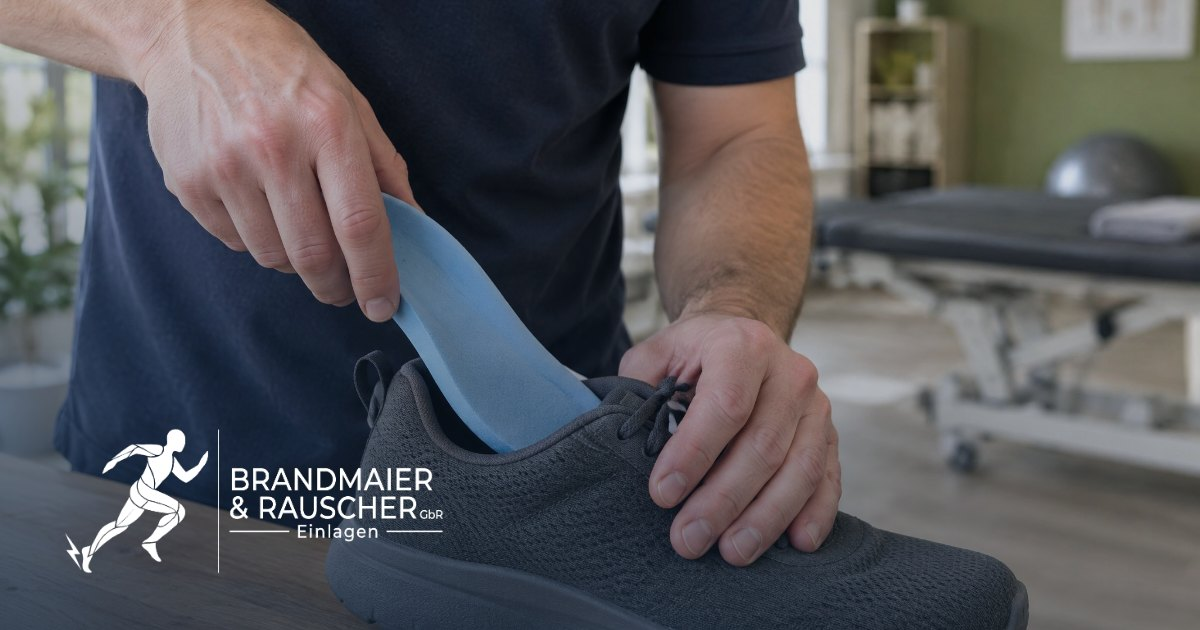
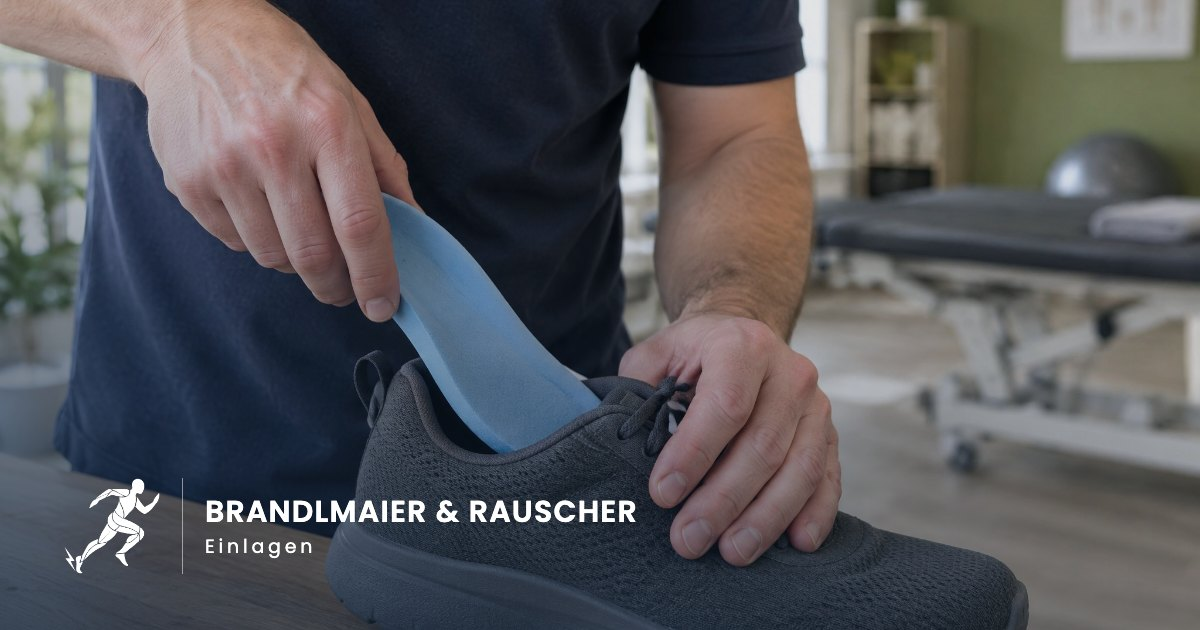
Brandlmaier statt Brandmaier, Hero-Text mittig, Druckkarte deutlicher
Name: Überall auf "Brandlmaier" umgestellt (Texte, Seitentitel, Gründername,
Impressum, Paketname). Die Logo-Datei des Kunden trägt noch die alte
Schreibweise. Deshalb zeigen Footer, Social-Media-Vorschaubild und das Logo
für Suchmaschinen jetzt das Läufer-Zeichen mit dem Namen als echter Schrift.

Hero: Der Textblock steht jetzt vertikal in der Mitte des Bildschirms.

Druckkarte: Unterschied zwischen beiden Reglerenden stärker sichtbar.
Ohne Einlage ein schmalerer Außenstreifen und ein engerer, hellerer
Fersenpunkt, mit Einlage eine breitere Auflage des Fußgewölbes. Die
gemessenen Studienwerte bleiben unverändert.

Tests 108/108 und 47/47.

Changed region(s): [[0.0308, 0.6635, 0.5242, 0.9048]]

diff --git a/_work/media/contact-sheet/contact-sheet.html b/_work/media/contact-sheet/contact-sheet.html
@@ -12,7 +12,7 @@ figure{margin:0;background:#0d172b;border-radius:6px;overflow:hidden}
 figcaption{padding:8px 10px 10px}figcaption b{display:block;font-size:13.5px;color:#fff;word-break:break-all}
 figcaption span{display:block;font-size:11.5px;color:var(--steel);margin-top:2px}
 </style>
-<h1>Brandmaier &amp; Rauscher – stock media contact sheet</h1>
+<h1>Brandlmaier &amp; Rauscher – stock media contact sheet</h1>
 <p class="sub">12 videos (poster = first frame; each as .mp4 + .webm + .jpg in public/media/videos) · 12 photos (public/media/images) · sources and licenses: _work/media/CREDITS.md</p>
 <h2>Videos</h2><div class="g v"><figure class=""><div class="im"><img src="file:///Users/lukas.sehorz/Library/CloudStorage/OneDrive-Pers%C3%B6nlich/Desktop/Webseiten/Sale/Wowo-Webseit/public/media/videos/detail-lacing-shoe.jpg"></div><figcaption><b>detail-lacing-shoe</b><span>1920x1080 · 7.0 s · mp4 2.5 MB · webm 1.8 MB</span></figcaption></figure><figure class=""><div class="im"><img src="file:///Users/lukas.sehorz/Library/CloudStorage/OneDrive-Pers%C3%B6nlich/Desktop/Webseiten/Sale/Wowo-Webseit/public/media/videos/hero-run-cobblestone.jpg"></div><figcaption><b>hero-run-cobblestone</b><span>1920x1080 · 10.0 s · mp4 4.0 MB · webm 2.2 MB</span></figcaption></figure><figure class=""><div class="im"><img src="file:///Users/lukas.sehorz/Library/CloudStorage/OneDrive-Pers%C3%B6nlich/Desktop/Webseiten/Sale/Wowo-Webseit/public/media/videos/hero-walk-crosswalk.jpg"></div><figcaption><b>hero-walk-crosswalk</b><span>1920x1080 · 9.0 s · mp4 4.0 MB · webm 2.5 MB</span></figcaption></figure><figure class=""><div class="im"><img src="file:///Users/lukas.sehorz/Library/CloudStorage/OneDrive-Pers%C3%B6nlich/Desktop/Webseiten/Sale/Wowo-Webseit/public/media/videos/physio-foot-palpation.jpg"></div><figcaption><b>physio-foot-palpation</b><span>1920x1080 · 9.0 s · mp4 2.5 MB · webm 0.8 MB</span></figcaption></figure><figure class=""><div class="im"><img src="file:///Users/lukas.sehorz/Library/CloudStorage/OneDrive-Pers%C3%B6nlich/Desktop/Webseiten/Sale/Wowo-Webseit/public/media/videos/physio-knee-taping.jpg"></div><figcaption><b>physio-knee-taping</b><span>1920x1080 · 8.0 s · mp4 1.8 MB · webm 1.1 MB</span></figcaption></figure><figure class=""><div class="im"><img src="file:///Users/lukas.sehorz/Library/CloudStorage/OneDrive-Pers%C3%B6nlich/Desktop/Webseiten/Sale/Wowo-Webseit/public/media/videos/physio-treadmill-gait.jpg"></div><figcaption><b>physio-treadmill-gait</b><span>1920x1080 · 9.0 s · mp4 2.2 MB · webm 0.9 MB</span></figcaption></figure><figure class=""><div class="im"><img src="file:///Users/lukas.sehorz/Library/CloudStorage/OneDrive-Pers%C3%B6nlich/Desktop/Webseiten/Sale/Wowo-Webseit/public/media/videos/run-road-side.jpg"></div><figcaption><b>run-road-side</b><span>1600x900 · 8.0 s · mp4 2.6 MB · webm 2.2 MB</span></figcaption></figure><figure class=""><div class="im"><img src="file:///Users/lukas.sehorz/Library/CloudStorage/OneDrive-Pers%C3%B6nlich/Desktop/Webseiten/Sale/Wowo-Webseit/public/media/videos/sport-football-footwork.jpg"></div><figcaption><b>sport-football-footwork</b><span>1920x1080 · 9.0 s · mp4 3.5 MB · webm 2.3 MB</span></figcaption></figure><figure class=""><div class="im"><img src="file:///Users/lukas.sehorz/Library/CloudStorage/OneDrive-Pers%C3%B6nlich/Desktop/Webseiten/Sale/Wowo-Webseit/public/media/videos/sport-football-penalty.jpg"></div><figcaption><b>sport-football-penalty</b><span>1920x1080 · 5.0 s · mp4 1.8 MB · webm 1.2 MB</span></figcaption></figure><figure class=""><div class="im"><img src="file:///Users/lukas.sehorz/Library/CloudStorage/OneDrive-Pers%C3%B6nlich/Desktop/Webseiten/Sale/Wowo-Webseit/public/media/videos/walk-bridge-teal.jpg"></div><figcaption><b>walk-bridge-teal</b><span>1920x1080 · 7.0 s · mp4 1.8 MB · webm 0.8 MB</span></figcaption></figure><figure class=""><div class="im"><img src="file:///Users/lukas.sehorz/Library/CloudStorage/OneDrive-Pers%C3%B6nlich/Desktop/Webseiten/Sale/Wowo-Webseit/public/media/videos/work-clinic-corridor.jpg"></div><figcaption><b>work-clinic-corridor</b><span>1920x1080 · 9.0 s · mp4 2.7 MB · webm 1.5 MB</span></figcaption></figure><figure class=""><div class="im"><img src="file:///Users/lukas.sehorz/Library/CloudStorage/OneDrive-Pers%C3%B6nlich/Desktop/Webseiten/Sale/Wowo-Webseit/public/media/videos/work-workshop-walk.jpg"></div><figcaption><b>work-workshop-walk</b><span>1920x1080 · 8.0 s · mp4 2.7 MB · webm 2.1 MB</span></figcaption></figure></div>
 <h2>Photos – the four tile-*.jpg are delivered as 4:5 crops (1600×2000)</h2><div class="g p"><figure class=""><div class="im"><img src="file:///Users/lukas.sehorz/Library/CloudStorage/OneDrive-Pers%C3%B6nlich/Desktop/Webseiten/Sale/Wowo-Webseit/public/media/images/tile-handel.jpg"></div><figcaption><b>tile-handel.jpg</b><span>1600x2000 · 669 KB</span></figcaption></figure><figure class=""><div class="im"><img src="file:///Users/lukas.sehorz/Library/CloudStorage/OneDrive-Pers%C3%B6nlich/Desktop/Webseiten/Sale/Wowo-Webseit/public/media/images/tile-logistik.jpg"></div><figcaption><b>tile-logistik.jpg</b><span>1600x2000 · 679 KB</span></figcaption></figure><figure class=""><div class="im"><img src="file:///Users/lukas.sehorz/Library/CloudStorage/OneDrive-Pers%C3%B6nlich/Desktop/Webseiten/Sale/Wowo-Webseit/public/media/images/tile-pflege.jpg"></div><figcaption><b>tile-pflege.jpg</b><span>1600x2000 · 853 KB</span></figcaption></figure><figure class=""><div class="im"><img src="file:///Users/lukas.sehorz/Library/CloudStorage/OneDrive-Pers%C3%B6nlich/Desktop/Webseiten/Sale/Wowo-Webseit/public/media/images/tile-sport.jpg"></div><figcaption><b>tile-sport.jpg</b><span>1600x2000 · 845 KB</span></figcaption></figure><figure class=""><div class="im"><img src="file:///Users/lukas.sehorz/Library/CloudStorage/OneDrive-Pers%C3%B6nlich/Desktop/Webseiten/Sale/Wowo-Webseit/public/media/images/gait-runners-road.jpg"></div><figcaption><b>gait-runners-road.jpg</b><span>2400x1599 · 484 KB</span></figcaption></figure><figure class=""><div class="im"><img src="file:///Users/lukas.sehorz/Library/CloudStorage/OneDrive-Pers%C3%B6nlich/Desktop/Webseiten/Sale/Wowo-Webseit/public/media/images/physio-feet-exam.jpg"></div><figcaption><b>physio-feet-exam.jpg</b><span>2400x1150 · 381 KB</span></figcaption></figure><figure class=""><div class="im"><img src="file:///Users/lukas.sehorz/Library/CloudStorage/OneDrive-Pers%C3%B6nlich/Desktop/Webseiten/Sale/Wowo-Webseit/public/media/images/physio-foot-treatment.jpg"></div><figcaption><b>physio-foot-treatment.jpg</b><span>2400x1929 · 594 KB</span></figcaption></figure><figure class=""><div class="im"><img src="file:///Users/lukas.sehorz/Library/CloudStorage/OneDrive-Pers%C3%B6nlich/Desktop/Webseiten/Sale/Wowo-Webseit/public/media/images/team-conversation.jpg"></div><figcaption><b>team-conversation.jpg</b><span>1600x2400 · 489 KB</span></figcaption></figure><figure class=""><div class="im"><img src="file:///Users/lukas.sehorz/Library/CloudStorage/OneDrive-Pers%C3%B6nlich/Desktop/Webseiten/Sale/Wowo-Webseit/public/media/images/texture-track-blue.jpg"></div><figcaption><b>texture-track-blue.jpg</b><span>1600x2133 · 763 KB</span></figcaption></figure><figure class=""><div class="im"><img src="file:///Users/lukas.sehorz/Library/CloudStorage/OneDrive-Pers%C3%B6nlich/Desktop/Webseiten/Sale/Wowo-Webseit/public/media/images/work-boots-lacing.jpg"></div><figcaption><b>work-boots-lacing.jpg</b><span>2400x1599 · 750 KB</span></figcaption></figure><figure class=""><div class="im"><img src="file:///Users/lukas.sehorz/Library/CloudStorage/OneDrive-Pers%C3%B6nlich/Desktop/Webseiten/Sale/Wowo-Webseit/public/media/images/work-production-line.jpg"></div><figcaption><b>work-production-line.jpg</b><span>2400x1599 · 939 KB</span></figcaption></figure><figure class=""><div class="im"><img src="file:///Users/lukas.sehorz/Library/CloudStorage/OneDrive-Pers%C3%B6nlich/Desktop/Webseiten/Sale/Wowo-Webseit/public/media/images/work-warehouse-walk.jpg"></div><figcaption><b>work-warehouse-walk.jpg</b><span>2400x1599 · 861 KB</span></figcaption></figure></div>

diff --git a/src/content/global.ts b/src/content/global.ts
@@ -25,30 +25,30 @@ export const footer = typesetContent({
     email: "E-Mail",
   },
   notes: [
-    "Formthotics ist eine Marke der Foot Science International Ltd, Neuseeland. Die Brandmaier & Rauscher GbR ist ein unabhängiger Anbieter.",
+    "Formthotics ist eine Marke der Foot Science International Ltd, Neuseeland. Die Brandlmaier & Rauscher GbR ist ein unabhängiger Anbieter.",
     "Einlagen ersetzen keine ärztliche Diagnose oder Therapie. Bei anhaltenden Beschwerden wenden Sie sich bitte an Ihre Ärztin oder Ihren Arzt.",
   ],
-  copyright: "© 2026 Brandmaier & Rauscher GbR",
+  copyright: "© 2026 Brandlmaier & Rauscher GbR",
 });
 
 export const seo = {
   home: {
-    title: "Funktionelle Einlagen, thermisch angepasst | Brandmaier & Rauscher",
+    title: "Funktionelle Einlagen, thermisch angepasst | Brandlmaier & Rauscher",
     description:
       "Zwei Physiotherapeuten passen funktionelle Einlagen direkt im eigenen Schuh an. Unternehmen geben die Versorgung per Gutschein an ihre Mitarbeitenden weiter.",
   },
   about: {
-    title: "Über uns | Brandmaier & Rauscher Einlagen",
+    title: "Über uns | Brandlmaier & Rauscher Einlagen",
     description:
-      "Sebastian Rauscher und Wolfgang Brandmaier sind Physiotherapeuten mit zusammen 20 Jahren Berufserfahrung. Seit 2018 passen wir funktionelle Einlagen an.",
+      "Sebastian Rauscher und Wolfgang Brandlmaier sind Physiotherapeuten mit zusammen 20 Jahren Berufserfahrung. Seit 2018 passen wir funktionelle Einlagen an.",
   },
   vouchers: {
-    title: "Einlagen-Gutscheine für Unternehmen | Brandmaier & Rauscher",
+    title: "Einlagen-Gutscheine für Unternehmen | Brandlmaier & Rauscher",
     description:
       "Gutscheine für Untersuchung, funktionelle Einlagen und thermische Anpassung. Anzahl wählen, Bestellanfrage senden, an Mitarbeitende weitergeben.",
   },
-  imprint: { title: "Impressum | Brandmaier & Rauscher Einlagen" },
-  privacy: { title: "Datenschutzerklärung | Brandmaier & Rauscher Einlagen" },
+  imprint: { title: "Impressum | Brandlmaier & Rauscher Einlagen" },
+  privacy: { title: "Datenschutzerklärung | Brandlmaier & Rauscher Einlagen" },
 };
 
 // Interface labels that are not part of the marketing copy (navigation and controls).
@@ -56,7 +56,7 @@ export const ui = {
   skipLink: "Zum Inhalt springen",
   mainNavLabel: "Hauptnavigation",
   footerNavLabel: "Fußnavigation",
-  homeLinkLabel: "Brandmaier & Rauscher Einlagen, zur Startseite",
+  homeLinkLabel: "Brandlmaier & Rauscher Einlagen, zur Startseite",
   menu: { open: "Menü öffnen", close: "Menü schließen", title: "Menü" },
   claimsLabel: "Auf einen Blick",
   externalHint: "öffnet in neuem Tab",

diff --git a/src/lib/pressure-model.ts b/src/lib/pressure-model.ts
@@ -6,7 +6,9 @@
 
 export const HEEL_PEAK_WITHOUT = 214.1;
 export const HEEL_PEAK_WITH = 172.5;
-export const SCALE_MAX = 232; // kPa at the top of the colour ramp
+// kPa at the top of the colour ramp. Slightly below the unsupported heel peak, so that peak reads
+// as a white-hot spot and the difference to the moulded state is easy to see.
+export const SCALE_MAX = 218;
 
 const FOOT_W = 0.385;
 
@@ -59,8 +61,8 @@ function contactDistance(x: number, y: number, t: number) {
   const heel = sdEllipse(x, y, 0.2, 0.868, 0.118, 0.122);
   const fore = sdEllipse(x, y, 0.192, 0.305, 0.182, 0.098, -0.2);
   // midfoot isthmus: a lateral band without support, widening medially as the moulded contour fills the arch
-  const mx = lerp(0.268, 0.222, t);
-  const midfoot = sdCapsule(x, y, mx - 0.012, 0.75, mx + 0.012, 0.43, lerp(0.062, 0.108, t));
+  const mx = lerp(0.276, 0.214, t);
+  const midfoot = sdCapsule(x, y, mx - 0.012, 0.75, mx + 0.012, 0.43, lerp(0.05, 0.12, t));
   const sole = smin(smin(heel, midfoot, 0.05), fore, 0.05);
   const toes = Math.min(
     sdEllipse(x, y, 0.082, 0.088, 0.05, 0.064, -0.08),
@@ -76,9 +78,9 @@ const gauss = (x: number, y: number, cx: number, cy: number, sx: number, sy: num
   Math.exp(-((x - cx) ** 2 / (2 * sx * sx) + (y - cy) ** 2 / (2 * sy * sy)));
 
 function pressureAt(x: number, y: number, t: number) {
-  let p = lerp(HEEL_PEAK_WITHOUT, HEEL_PEAK_WITH, t) * gauss(x, y, 0.2, 0.875, lerp(0.062, 0.078, t), lerp(0.066, 0.082, t));
+  let p = lerp(HEEL_PEAK_WITHOUT, HEEL_PEAK_WITH, t) * gauss(x, y, 0.2, 0.875, lerp(0.054, 0.086, t), lerp(0.058, 0.09, t));
   p += lerp(62, 74, t) * gauss(x, y, 0.275, 0.6, 0.05, 0.13); // lateral midfoot
-  p += lerp(0, 56, t) * gauss(x, y, 0.15, 0.6, 0.055, 0.12); // medial arch
+  p += lerp(0, 74, t) * gauss(x, y, 0.15, 0.6, 0.058, 0.13); // medial arch
   p += 150 * gauss(x, y, 0.085, 0.325, 0.05, 0.055); // metatarsal head 1
   p += 170 * gauss(x, y, 0.2, 0.29, 0.06, 0.055); // metatarsal heads 2-3
   p += 115 * gauss(x, y, 0.315, 0.335, 0.05, 0.055); // metatarsal heads 4-5

diff --git a/src/content/founders.ts b/src/content/founders.ts
@@ -46,17 +46,17 @@ export const founders: Founder[] = typesetContent([
         text: "Lehrteam Manuelle Therapie und Lehrteam Funktionelle Schuheinlagen der FAMP",
       },
       { period: "2024", text: "Gründung der eigenen Privatpraxis für Physiotherapie" },
-      { period: "2026", text: "Fortführung der GbR mit Wolfgang Brandmaier" },
+      { period: "2026", text: "Fortführung der GbR mit Wolfgang Brandlmaier" },
     ],
   },
   {
-    id: "wolfgang-brandmaier",
-    name: "Wolfgang Brandmaier",
+    id: "wolfgang-brandlmaier",
+    name: "Wolfgang Brandlmaier",
     initials: "WB",
     role: "Physiotherapeut und Heilpraktiker",
     tone: "olive",
     image: null,
-    bio: "Wolfgang Brandmaier ist seit 2020 Physiotherapeut und betreut seit 2021 den Regionalligisten TSV Buchbach. Er absolvierte die Fortbildung in Manueller Therapie an der International Academy of Orthopedic Medicine und die Ausbildung zum Heilpraktiker. 2024 und 2025 arbeitete er im betrieblichen Gesundheitsmanagement.",
+    bio: "Wolfgang Brandlmaier ist seit 2020 Physiotherapeut und betreut seit 2021 den Regionalligisten TSV Buchbach. Er absolvierte die Fortbildung in Manueller Therapie an der International Academy of Orthopedic Medicine und die Ausbildung zum Heilpraktiker. 2024 und 2025 arbeitete er im betrieblichen Gesundheitsmanagement.",
     qualifications: [
       "Physiotherapeut",
       "Heilpraktiker",
@@ -77,7 +77,7 @@ export const founders: Founder[] = typesetContent([
       { period: "2023 bis 2025", text: "Ausbildung zum Heilpraktiker, Zentrum für Naturheilkunde München" },
       { period: "2024 bis 2025", text: "Phy-4-You, Betriebliches Gesundheitsmanagement" },
       { period: "2026", text: "Gründung der Heilpraktikerpraxis TheraSano" },
-      { period: "2026", text: "Einstieg in die Brandmaier & Rauscher GbR" },
+      { period: "2026", text: "Einstieg in die Brandlmaier & Rauscher GbR" },
     ],
   },
 ]);

diff --git a/src/components/layout/Footer.tsx b/src/components/layout/Footer.tsx
@@ -51,14 +51,18 @@ export function Footer() {
         >
           <Container className="grid grid-cols-2 gap-x-8 gap-y-10 md:grid-cols-[minmax(0,1.2fr)_auto_auto_minmax(220px,1fr)] md:gap-x-10 xl:grid-cols-[minmax(260px,1.2fr)_auto_auto_minmax(240px,1fr)_minmax(300px,1.1fr)] xl:gap-x-12">
             <div className="col-span-2 md:col-span-1">
-              <Image
-                src="/brand/logo-full-duo.png"
-                alt={`${site.shortName} ${site.product}`}
-                width={1854}
-                height={711}
-                sizes="260px"
-                className="h-auto w-full max-w-[220px] lg:max-w-[260px]"
-              />
+              {/* Runner mark plus live text: the client's logo file still carries the old
+                  spelling of the name, so the wordmark is set in type here. */}
+              <div className="flex items-center gap-4">
+                <Image src="/brand/mark-duo.png" alt="" width={72} height={72} className="size-16 shrink-0 lg:size-[72px]" />
+                <span aria-hidden="true" className="h-16 w-px bg-olive-300/50 lg:h-[72px]" />
+                <p className="flex flex-col gap-1.5 whitespace-nowrap">
+                  <span className="text-[1.0625rem] leading-none font-medium tracking-[0.04em] text-olive-300 uppercase lg:text-lg">
+                    {site.lockup.line1}
+                  </span>
+                  <span className="text-[0.8125rem] leading-none tracking-[0.2em] text-steel-200">{site.lockup.line2}</span>
+                </p>
+              </div>
               <div className="mt-8 max-w-[420px] space-y-3">
                 {footer.notes.map((note) => (
                   <p key={note} className="text-xs leading-[1.55] text-steel-200/80">

diff --git a/src/content/about.ts b/src/content/about.ts
@@ -6,7 +6,7 @@ import { typesetContent } from "@/lib/format";
 export const aboutHero = typesetContent({
   eyebrow: "Über uns",
   headline: ["Erst der Befund,", "dann die Einlage"],
-  text: "Hinter Brandmaier & Rauscher stehen zwei Physiotherapeuten mit zusammen 20 Jahren Berufserfahrung. Wir passen Einlagen so an, wie wir behandeln. Am Anfang steht die Untersuchung.",
+  text: "Hinter Brandlmaier & Rauscher stehen zwei Physiotherapeuten mit zusammen 20 Jahren Berufserfahrung. Wir passen Einlagen so an, wie wir behandeln. Am Anfang steht die Untersuchung.",
   image: {
     src: "/media/images/about-hero.jpg",
     alt: "Praxisraum mit hellblauen Einlagen, Sneakern und Warmluftgerät auf einer Holzbank, im Hintergrund arbeitet ein Therapeut an der Behandlungsliege",
@@ -21,7 +21,7 @@ export const story = typesetContent({
   heading: "Aus der Praxis entstanden",
   paragraphs: [
     "2018 gründete Sebastian Rauscher die erste GbR für funktionelle Schuheinlagen. Im selben Jahr kam er in das Lehrteam der Fortbildungsakademie Markus Pschick (FAMP). Dort unterrichtete er bis 2024 Manuelle Therapie und die Versorgung mit funktionellen Einlagen.",
-    "2026 stieg Wolfgang Brandmaier ein. Er arbeitet seit 2021 mit den Spielern des Regionalligisten TSV Buchbach und kennt aus dem betrieblichen Gesundheitsmanagement die Belastungen am Arbeitsplatz. Seitdem führen beide das Unternehmen gemeinsam.",
+    "2026 stieg Wolfgang Brandlmaier ein. Er arbeitet seit 2021 mit den Spielern des Regionalligisten TSV Buchbach und kennt aus dem betrieblichen Gesundheitsmanagement die Belastungen am Arbeitsplatz. Seitdem führen beide das Unternehmen gemeinsam.",
   ],
   image: {
     src: "/media/images/about-detail.jpg",

diff --git a/src/content/home.ts b/src/content/home.ts
@@ -190,6 +190,6 @@ export const voucherTeaser = typesetContent({
 export const foundersTeaser = typesetContent({
   eyebrow: "Über uns",
   heading: "Angepasst von Physiotherapeuten",
-  text: "Sebastian Rauscher passt seit 2018 funktionelle Einlagen an und hat sechs Jahre lang Therapeutinnen und Therapeuten darin ausgebildet. Wolfgang Brandmaier betreut seit 2021 den Regionalligisten TSV Buchbach und bringt Erfahrung aus dem betrieblichen Gesundheitsmanagement mit.",
+  text: "Sebastian Rauscher passt seit 2018 funktionelle Einlagen an und hat sechs Jahre lang Therapeutinnen und Therapeuten darin ausgebildet. Wolfgang Brandlmaier betreut seit 2021 den Regionalligisten TSV Buchbach und bringt Erfahrung aus dem betrieblichen Gesundheitsmanagement mit.",
   link: { label: "Mehr über uns", href: "/ueber-uns" },
 });

diff --git a/src/config/site.ts b/src/config/site.ts
@@ -6,17 +6,17 @@ export type Pending = string | null;
 export const PENDING_LABEL = "Angabe folgt";
 
 export const site = {
-  name: "Brandmaier & Rauscher GbR",
-  shortName: "Brandmaier & Rauscher",
+  name: "Brandlmaier & Rauscher GbR",
+  shortName: "Brandlmaier & Rauscher",
   product: "Einlagen",
   // TODO(client): final domain. Used for canonical URLs, sitemap and Open Graph.
   url: process.env.NEXT_PUBLIC_SITE_URL ?? "http://localhost:3000",
   locale: "de_DE",
   lockup: {
-    line1: "Brandmaier & Rauscher",
+    line1: "Brandlmaier & Rauscher",
     line2: "Einlagen",
   },
-  founders: ["Sebastian Rauscher", "Wolfgang Brandmaier"],
+  founders: ["Sebastian Rauscher", "Wolfgang Brandlmaier"],
   contact: {
     // TODO(client): street, postcode and city of the practice
     address: null as Pending,

diff --git a/src/components/home/Hero.tsx b/src/components/home/Hero.tsx
@@ -14,7 +14,7 @@ import { hero } from "@/content/home";
 export function Hero() {
   return (
     <section className="hero-screen relative isolate text-white">
-      <div className="shell pointer-events-none relative z-10 flex h-full flex-col items-center justify-end pb-[clamp(40px,3.37vw,64px)] text-center *:pointer-events-auto">
+      <div className="shell pointer-events-none relative z-10 flex h-full flex-col items-center justify-center pt-header pb-[calc(var(--radius-sheet)+24px)] text-center *:pointer-events-auto">
         <SplitHeading as="h1" lines={hero.headline} onMedia className="display display-hero max-w-[900px]" />
         <p className="hero-sub mt-5 max-w-[640px] md:mt-6">{hero.subline}</p>
         <div className="mt-7 flex flex-wrap items-center justify-center gap-x-5 gap-y-4 md:mt-8">

diff --git a/src/app/layout.tsx b/src/app/layout.tsx
@@ -31,7 +31,7 @@ const organization = {
   "@type": "Organization",
   name: site.name,
   url: site.url,
-  logo: new URL("/brand/logo-full.png", site.url).toString(),
+  logo: new URL("/brand/mark.png", site.url).toString(),
   founder: site.founders.map((name) => ({ "@type": "Person", name })),
   ...(site.contact.email ? { email: site.contact.email } : {}),
   ...(site.contact.phone ? { telephone: site.contact.phone } : {}),

diff --git a/src/config/vouchers.ts b/src/config/vouchers.ts
@@ -29,7 +29,7 @@ export const vouchers = {
     scope: "Untersuchung, Einlagen, Anpassung",
     codeLabel: "Code",
     code: "BR-2026-0001",
-    issuer: "Brandmaier & Rauscher Einlagen",
+    issuer: "Brandlmaier & Rauscher Einlagen",
   },
 } as const;
 

diff --git a/_work/COPY.md b/_work/COPY.md
@@ -1,4 +1,4 @@
-# Copy Deck · Brandmaier & Rauscher GbR · Einlagen
+# Copy Deck · Brandlmaier & Rauscher GbR · Einlagen
 
 Verbindliche Texte für alle Seiten. Nummerierung wie in `BRIEF.md`, Abschnitt 6.
 
@@ -17,7 +17,7 @@ Regeln für jede spätere Änderung:
 
 **Navigation:** Start · Über uns · Gutscheine
 **Header-Button:** Gutscheine anfragen
-**Logo-Lockup:** BRANDMAIER & RAUSCHER / Einlagen
+**Logo-Lockup:** BRANDLMAIER & RAUSCHER / Einlagen
 
 **Laufband (nur Unterseiten):**
 - Individuell angepasst von Physiotherapeuten
@@ -30,17 +30,17 @@ Regeln für jede spätere Änderung:
 - Button: Zur Bestellanfrage
 - Spalte Seiten: Start, Über uns, Gutscheine
 - Spalte Rechtliches: Impressum, Datenschutz
-- Spalte Kontakt: Brandmaier & Rauscher GbR, Adresse `[TODO(client)]`, Telefon `[TODO(client)]`, E-Mail `[TODO(client)]`
-- Hinweis klein: Formthotics ist eine Marke der Foot Science International Ltd, Neuseeland. Die Brandmaier & Rauscher GbR ist ein unabhängiger Anbieter.
+- Spalte Kontakt: Brandlmaier & Rauscher GbR, Adresse `[TODO(client)]`, Telefon `[TODO(client)]`, E-Mail `[TODO(client)]`
+- Hinweis klein: Formthotics ist eine Marke der Foot Science International Ltd, Neuseeland. Die Brandlmaier & Rauscher GbR ist ein unabhängiger Anbieter.
 - Hinweis klein: Einlagen ersetzen keine ärztliche Diagnose oder Therapie. Bei anhaltenden Beschwerden wenden Sie sich bitte an Ihre Ärztin oder Ihren Arzt.
-- Copyright: © 2026 Brandmaier & Rauscher GbR
+- Copyright: © 2026 Brandlmaier & Rauscher GbR
 
 **SEO**
-- Start, Title: Funktionelle Einlagen, thermisch angepasst | Brandmaier & Rauscher
+- Start, Title: Funktionelle Einlagen, thermisch angepasst | Brandlmaier & Rauscher
 - Start, Description: Zwei Physiotherapeuten passen funktionelle Einlagen direkt im eigenen Schuh an. Unternehmen geben die Versorgung per Gutschein an ihre Mitarbeitenden weiter.
-- Über uns, Title: Über uns | Brandmaier & Rauscher Einlagen
-- Über uns, Description: Sebastian Rauscher und Wolfgang Brandmaier sind Physiotherapeuten mit zusammen 20 Jahren Berufserfahrung. Seit 2018 passen wir funktionelle Einlagen an.
-- Gutscheine, Title: Einlagen-Gutscheine für Unternehmen | Brandmaier & Rauscher
+- Über uns, Title: Über uns | Brandlmaier & Rauscher Einlagen
+- Über uns, Description: Sebastian Rauscher und Wolfgang Brandlmaier sind Physiotherapeuten mit zusammen 20 Jahren Berufserfahrung. Seit 2018 passen wir funktionelle Einlagen an.
+- Gutscheine, Title: Einlagen-Gutscheine für Unternehmen | Brandlmaier & Rauscher
 - Gutscheine, Description: Gutscheine für Untersuchung, funktionelle Einlagen und thermische Anpassung. Anzahl wählen, Bestellanfrage senden, an Mitarbeitende weitergeben.
 
 ---
@@ -164,13 +164,13 @@ Regeln für jede spätere Änderung:
 - Zusatz: Die EU-Arbeitsschutzagentur nennt individuell angepasste Einlagen als eine Maßnahme bei Steharbeit, an deren Kosten sich Arbeitgeber beteiligen können, wenn sie ärztlich oder physiotherapeutisch empfohlen sind (EU-OSHA 2021).
 - Mini-Schritte: Anzahl wählen · Gutscheine verteilen · Termin und Anpassung
 - Button: Gutscheine anfragen
-- Text auf der Gutscheinkarte: GUTSCHEIN / Untersuchung, Einlagen, Anpassung / Code BR-2026-0001 / Brandmaier & Rauscher Einlagen
+- Text auf der Gutscheinkarte: GUTSCHEIN / Untersuchung, Einlagen, Anpassung / Code BR-2026-0001 / Brandlmaier & Rauscher Einlagen
 
 ### 1.10 Über uns (Teaser)
 - Eyebrow: Über uns
 - H2: Angepasst von Physiotherapeuten
-- Text: Sebastian Rauscher passt seit 2018 funktionelle Einlagen an und hat sechs Jahre lang Therapeutinnen und Therapeuten darin ausgebildet. Wolfgang Brandmaier betreut seit 2021 den Regionalligisten TSV Buchbach und bringt Erfahrung aus dem betrieblichen Gesundheitsmanagement mit.
-- Karten: Sebastian Rauscher · Physiotherapeut, Gründer / Wolfgang Brandmaier · Physiotherapeut und Heilpraktiker
+- Text: Sebastian Rauscher passt seit 2018 funktionelle Einlagen an und hat sechs Jahre lang Therapeutinnen und Therapeuten darin ausgebildet. Wolfgang Brandlmaier betreut seit 2021 den Regionalligisten TSV Buchbach und bringt Erfahrung aus dem betrieblichen Gesundheitsmanagement mit.
+- Karten: Sebastian Rauscher · Physiotherapeut, Gründer / Wolfgang Brandlmaier · Physiotherapeut und Heilpraktiker
 - Pfeillink: Mehr über uns
 
 ### 1.11 Vertrauenszeile
@@ -185,7 +185,7 @@ Regeln für jede spätere Änderung:
 ### 2.2 Hero
 - Eyebrow: Über uns
 - H1 (Display): ERST DER BEFUND, | DANN DIE EINLAGE
-- Text: Hinter Brandmaier & Rauscher stehen zwei Physiotherapeuten mit zusammen 20 Jahren Berufserfahrung. Wir passen Einlagen so an, wie wir behandeln. Am Anfang steht die Untersuchung.
+- Text: Hinter Brandlmaier & Rauscher stehen zwei Physiotherapeuten mit zusammen 20 Jahren Berufserfahrung. Wir passen Einlagen so an, wie wir behandeln. Am Anfang steht die Untersuchung.
 
 ### 2.3 Zahlen
 1. **20** · Jahre Berufserfahrung in der Physiotherapie, zusammengerechnet
@@ -196,7 +196,7 @@ Regeln für jede spätere Änderung:
 ### 2.4 Geschichte
 - H2: Aus der Praxis entstanden
 - Absatz 1: 2018 gründete Sebastian Rauscher die erste GbR für funktionelle Schuheinlagen. Im selben Jahr kam er in das Lehrteam der Fortbildungsakademie Markus Pschick (FAMP). Dort unterrichtete er bis 2024 Manuelle Therapie und die Versorgung mit funktionellen Einlagen.
-- Absatz 2: 2026 stieg Wolfgang Brandmaier ein. Er arbeitet seit 2021 mit den Spielern des Regionalligisten TSV Buchbach und kennt aus dem betrieblichen Gesundheitsmanagement die Belastungen am Arbeitsplatz. Seitdem führen beide das Unternehmen gemeinsam.
+- Absatz 2: 2026 stieg Wolfgang Brandlmaier ein. Er arbeitet seit 2021 mit den Spielern des Regionalligisten TSV Buchbach und kennt aus dem betrieblichen Gesundheitsmanagement die Belastungen am Arbeitsplatz. Seitdem führen beide das Unternehmen gemeinsam.
 
 ### 2.5 Profile
 
@@ -214,11 +214,11 @@ Regeln für jede spätere Änderung:
   - 2018 · Gründung der ersten GbR für funktionelle Schuheinlagen
   - 2018 bis 2024 · Lehrteam Manuelle Therapie und Lehrteam Funktionelle Schuheinlagen der FAMP
   - 2024 · Gründung der eigenen Privatpraxis für Physiotherapie
-  - 2026 · Fortführung der GbR mit Wolfgang Brandmaier
+  - 2026 · Fortführung der GbR mit Wolfgang Brandlmaier
 
-**Wolfgang Brandmaier**
+**Wolfgang Brandlmaier**
 - Rolle: Physiotherapeut und Heilpraktiker
-- Kurztext: Wolfgang Brandmaier ist seit 2020 Physiotherapeut und betreut seit 2021 den Regionalligisten TSV Buchbach. Er absolvierte die Fortbildung in Manueller Therapie an der International Academy of Orthopedic Medicine und die Ausbildung zum Heilpraktiker. 2024 und 2025 arbeitete er im betrieblichen Gesundheitsmanagement.
+- Kurztext: Wolfgang Brandlmaier ist seit 2020 Physiotherapeut und betreut seit 2021 den Regionalligisten TSV Buchbach. Er absolvierte die Fortbildung in Manueller Therapie an der International Academy of Orthopedic Medicine und die Ausbildung zum Heilpraktiker. 2024 und 2025 arbeitete er im betrieblichen Gesundheitsmanagement.
 - Qualifikationen (Chips): Physiotherapeut · Heilpraktiker · Manuelle Therapie (IAOM) · Krankengymnastik am Gerät · Manuelle Lymphdrainage
 - Werdegang:
   - 2017 bis 2020 · Ausbildung zum Physiotherapeuten, Ludwig Fresenius Schulen München
@@ -230,7 +230,7 @@ Regeln für jede spätere Änderung:
   - 2023 bis 2025 · Ausbildung zum Heilpraktiker, Zentrum für Naturheilkunde München
   - 2024 bis 2025 · Phy-4-You, Betriebliches Gesundheitsmanagement
   - 2026 · Gründung der Heilpraktikerpraxis TheraSano
-  - 2026 · Einstieg in die Brandmaier & Rauscher GbR
+  - 2026 · Einstieg in die Brandlmaier & Rauscher GbR
 
 - Platzhalter-Hinweis unter den Porträtkarten (nur im Code als Kommentar): Hier folgt das Porträtfoto.
 
@@ -318,5 +318,5 @@ Regeln für jede spätere Änderung:
 
 ## 4 Rechtliche Seiten (Platzhalter)
 
-- Impressum: Überschrift „Impressum“, darunter ein klar markierter Platzhalterblock mit den nötigen Angaben nach § 5 DDG (Name der GbR, vertretungsberechtigte Gesellschafter Sebastian Rauscher und Wolfgang Brandmaier, Anschrift, Telefon, E-Mail, Umsatzsteuer-ID falls vorhanden, Zeile „Umsatzsteuer“ für den Hinweis auf die Kleinunternehmerregelung nach § 19 UStG, Berufsbezeichnung Physiotherapeut, verliehen in Deutschland, zuständige Aufsichtsbehörde). Alle Werte `[TODO(client)]`.
+- Impressum: Überschrift „Impressum“, darunter ein klar markierter Platzhalterblock mit den nötigen Angaben nach § 5 DDG (Name der GbR, vertretungsberechtigte Gesellschafter Sebastian Rauscher und Wolfgang Brandlmaier, Anschrift, Telefon, E-Mail, Umsatzsteuer-ID falls vorhanden, Zeile „Umsatzsteuer“ für den Hinweis auf die Kleinunternehmerregelung nach § 19 UStG, Berufsbezeichnung Physiotherapeut, verliehen in Deutschland, zuständige Aufsichtsbehörde). Alle Werte `[TODO(client)]`.
 - Datenschutz: Überschrift „Datenschutzerklärung“, Platzhalterblock mit den Punkten Verantwortliche Stelle, Hosting, Server-Logfiles, Bestellanfrage-Formular (Zweck, Rechtsgrundlage Art. 6 Abs. 1 lit. b DSGVO, Speicherdauer), Rechte der Betroffenen. Hinweis im Code: muss vor dem Livegang juristisch geprüft werden. Die Seite setzt keine Cookies und lädt keine Inhalte von Drittanbietern.
